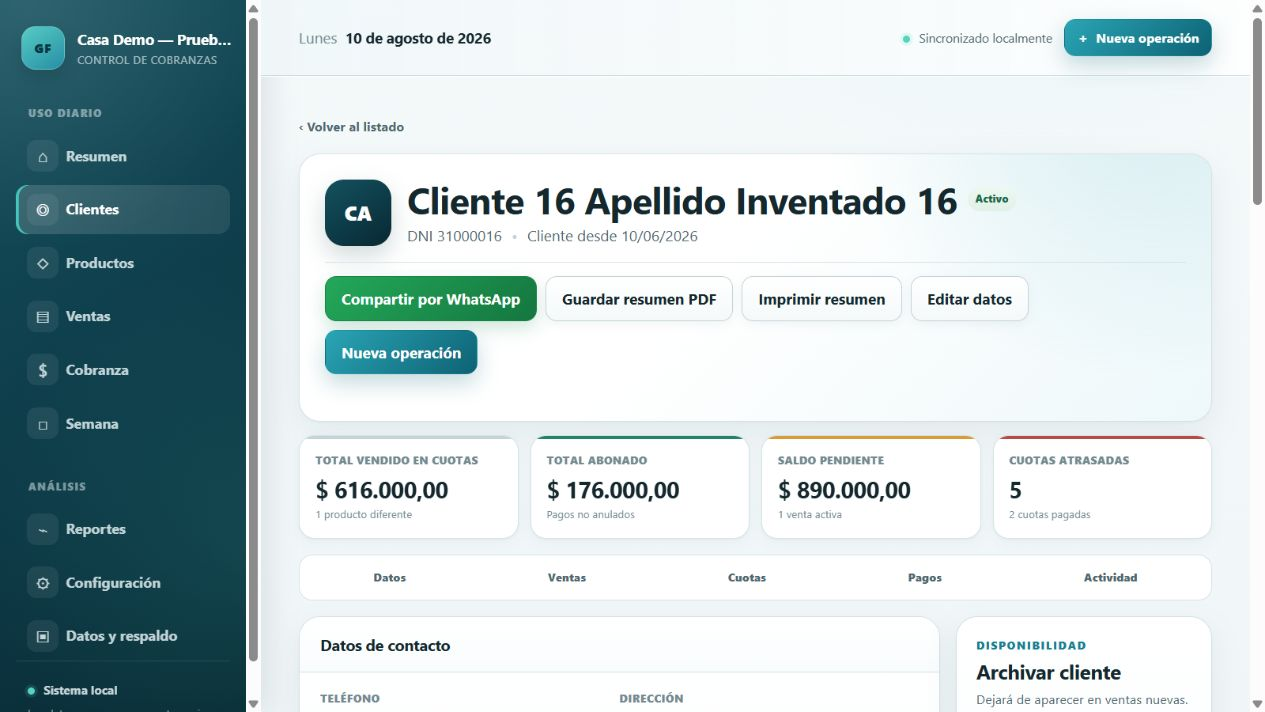
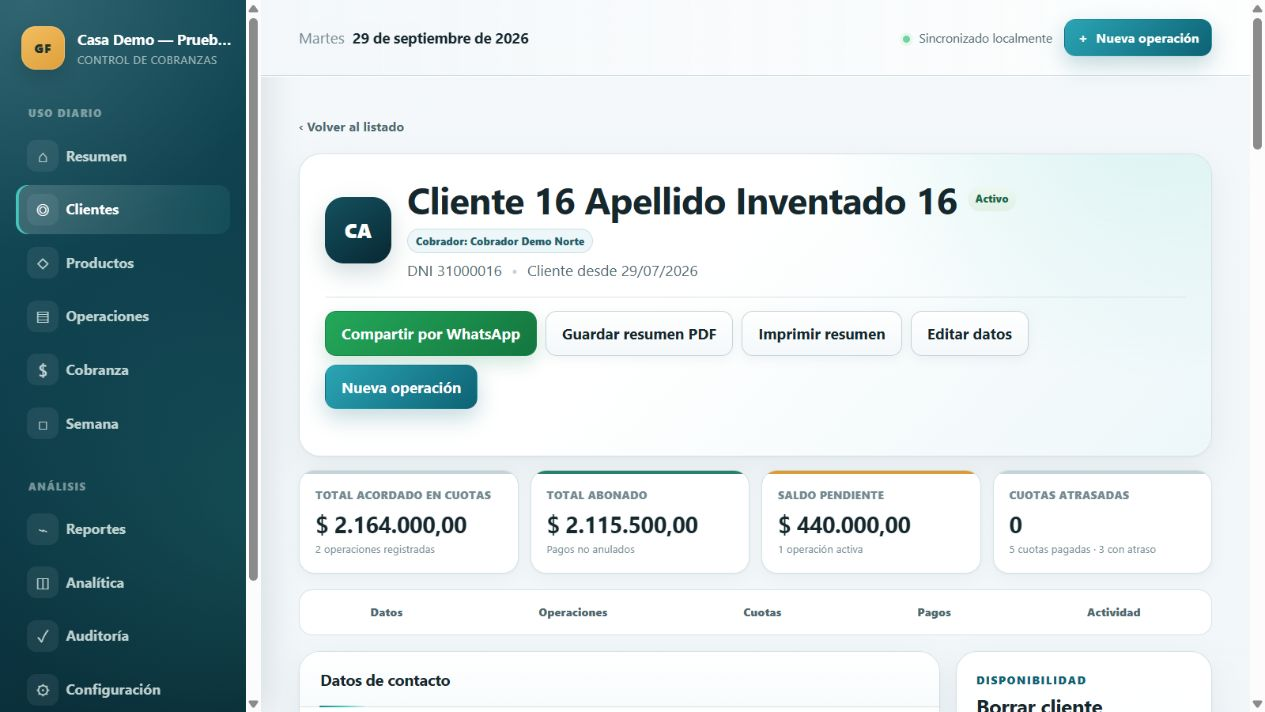
fix: restaurar analítica y renovar capturas 1.8

diff --git a/app/static/css/app.css b/app/static/css/app.css
@@ -7166,3 +7166,205 @@ textarea:focus-visible {
         white-space: normal;
     }
 }
+
+/* GF-C1/C2: acceso multiusuario y analítica conciliada */
+.inline-form {
+    display: inline-flex;
+    margin: 0;
+}
+
+.auth-page {
+    min-height: 100vh;
+    background: linear-gradient(145deg, #0c2f29, #164f43);
+}
+
+.auth-layout {
+    display: grid;
+    min-height: 100vh;
+    padding: 2rem;
+    place-items: center;
+}
+
+.auth-card {
+    display: grid;
+    width: min(460px, 100%);
+    gap: 1rem;
+    padding: 2rem;
+}
+
+.auth-card .brand-mark {
+    margin-bottom: 0.5rem;
+}
+
+.auth-card h1,
+.auth-card p {
+    margin: 0;
+}
+
+.stack-form {
+    display: grid;
+    gap: 0.65rem;
+}
+
+.stack-form input {
+    width: 100%;
+}
+
+.analytics-header {
+    align-items: flex-end;
+}
+
+.analytics-kpis {
+    grid-template-columns: repeat(4, minmax(0, 1fr));
+}
+
+.analytics-grid {
+    display: grid;
+    grid-template-columns: minmax(0, 2fr) minmax(260px, 1fr);
+    gap: 1rem;
+    margin-bottom: 1rem;
+}
+
+.analytics-panel {
+    padding: 1.35rem;
+}
+
+.aging-chart {
+    display: grid;
+    gap: 1rem;
+    margin-top: 1rem;
+}
+
+.aging-row {
+    display: grid;
+    grid-template-columns: minmax(150px, 1fr) minmax(120px, 2fr) minmax(135px, 0.8fr);
+    gap: 1rem;
+    align-items: center;
+}
+
+.aging-label,
+.aging-value {
+    display: grid;
+    gap: 0.15rem;
+}
+
+.aging-label small,
+.aging-value small {
+    color: var(--muted);
+}
+
+.aging-value {
+    text-align: right;
+}
+
+.aging-track {
+    height: 0.8rem;
+    overflow: hidden;
+    border-radius: 99px;
+    background: #e7eee9;
+}
+
+.aging-track span {
+    display: block;
+    height: 100%;
+    border-radius: inherit;
+    background: linear-gradient(90deg, #2c8f78, #e4a84b);
+}
+
+.metric-list {
+    display: grid;
+    gap: 0.4rem;
+    margin: 1rem 0 0;
+}
+
+.metric-list div {
+    display: flex;
+    gap: 1rem;
+    justify-content: space-between;
+    padding: 0.7rem 0;
+    border-bottom: 1px solid var(--border);
+}
+
+.metric-list dt,
+.metric-list dd {
+    margin: 0;
+}
+
+.metric-list dd {
+    font-weight: 800;
+}
+
+.cohort-panel {
+    margin-bottom: 1rem;
+}
+
+.cohort-table {
+    min-width: 760px;
+    font-size: 0.76rem;
+}
+
+.cohort-table th,
+.cohort-table td {
+    padding-right: 0.65rem;
+    padding-left: 0.65rem;
+    white-space: nowrap;
+}
+
+.cohort-table th:first-child,
+.cohort-table td:first-child {
+    padding-left: 0;
+}
+
+.cohort-table th:last-child,
+.cohort-table td:last-child {
+    padding-right: 0;
+}
+
+.reconciliation-strip {
+    display: flex;
+    flex-wrap: wrap;
+    gap: 1rem 2rem;
+    align-items: center;
+    padding: 1rem 1.25rem;
+    border: 1px solid;
+    border-radius: 14px;
+}
+
+.reconciliation-strip.is-success {
+    border-color: #a5d8c8;
+    background: #e9f7f1;
+    color: #195c4b;
+}
+
+.reconciliation-strip.is-danger {
+    border-color: #efb6b6;
+    background: #fff0f0;
+    color: #8a2f2f;
+}
+
+@media (max-width: 980px) {
+    .analytics-kpis {
+        grid-template-columns: repeat(2, minmax(0, 1fr));
+    }
+
+    .analytics-grid {
+        grid-template-columns: 1fr;
+    }
+}
+
+@media (max-width: 640px) {
+    .analytics-kpis {
+        grid-template-columns: 1fr;
+    }
+
+    .aging-row {
+        grid-template-columns: 1fr;
+        gap: 0.45rem;
+    }
+
+    .aging-value {
+        grid-template-columns: auto auto;
+        justify-content: space-between;
+        text-align: left;
+    }
+}

diff --git a/tests/test_ux_consistency.py b/tests/test_ux_consistency.py
@@ -146,3 +146,23 @@ def test_sale_preview_has_a_caption_for_every_frequency_without_stale_variables(
     assert 'biweekly: `${count} cuotas · cada 2 semanas`' in script
     assert 'monthly: `${count} cuotas · una por mes`' in script
     assert "captionOutput.textContent = isMonthly" not in script
+
+
+def test_multiuser_and_analytics_styles_survive_release_merges():
+    css = (PROJECT_ROOT / "app/static/css/app.css").read_text(encoding="utf-8")
+
+    for selector in (
+        ".auth-page",
+        ".auth-layout",
+        ".analytics-kpis",
+        ".analytics-grid",
+        ".aging-row",
+        ".aging-track span",
+        ".metric-list",
+        ".cohort-table",
+        ".reconciliation-strip.is-success",
+    ):
+        assert selector in css
+
+    assert "grid-template-columns: repeat(4, minmax(0, 1fr));" in css
+    assert "grid-template-columns: minmax(150px, 1fr) minmax(120px, 2fr)" in css

diff --git a/CHANGELOG.md b/CHANGELOG.md
@@ -6,6 +6,17 @@ El formato sigue [Keep a Changelog](https://keepachangelog.com/es-ES/1.1.0/) y e
 
 ## [Unreleased]
 
+### Corregido
+
+- Se restauraron los estilos del acceso multiusuario y de Analítica que se
+  habían perdido durante la unificación 1.8.0; los KPI, el aging, las cohortes
+  y la conciliación vuelven a conservar su grilla y jerarquía visual.
+
+### Documentación
+
+- Se renovaron las cinco capturas de producto y el recorrido animado con una
+  base demo ficticia y aislada de la versión integrada.
+
 ## [1.8.0] - 2026-09-29
 
 ### Agregado
